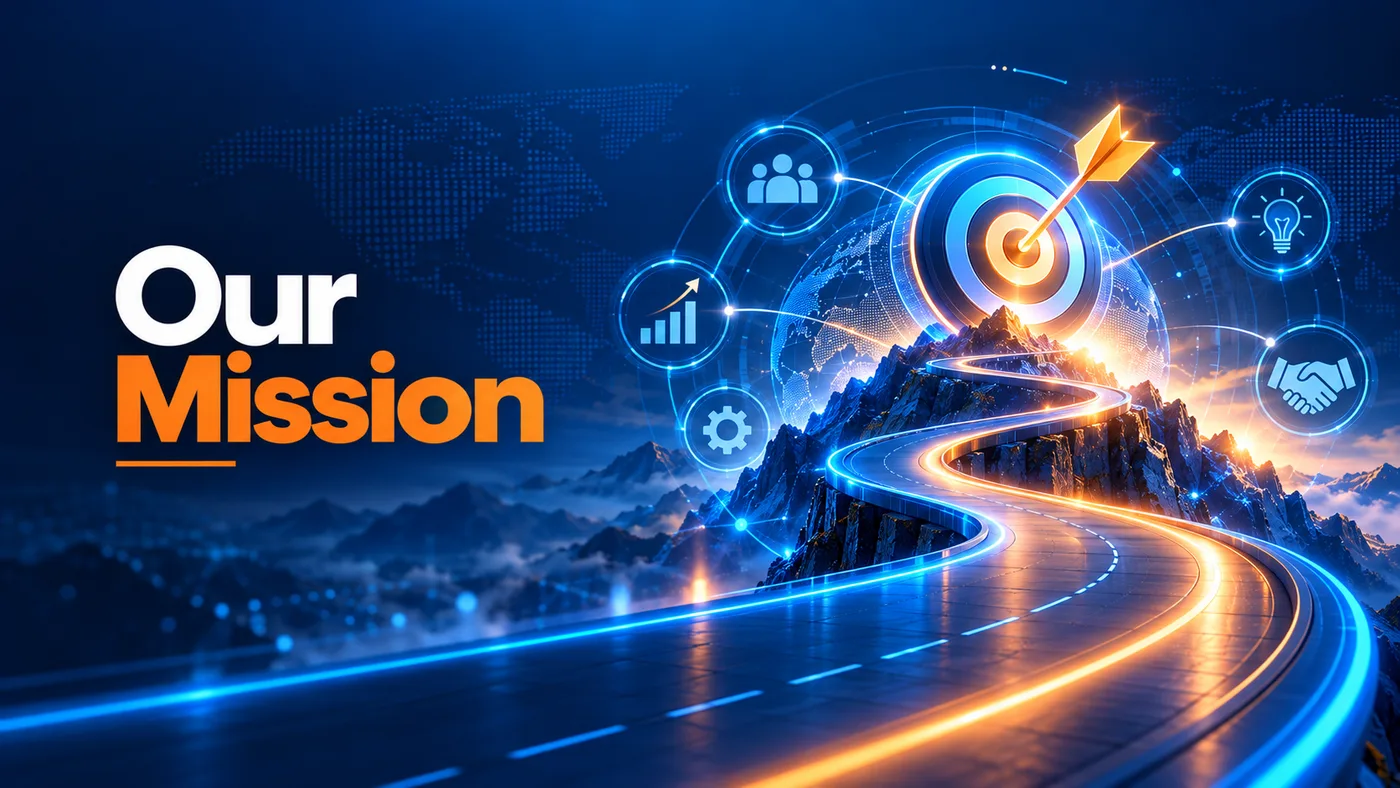
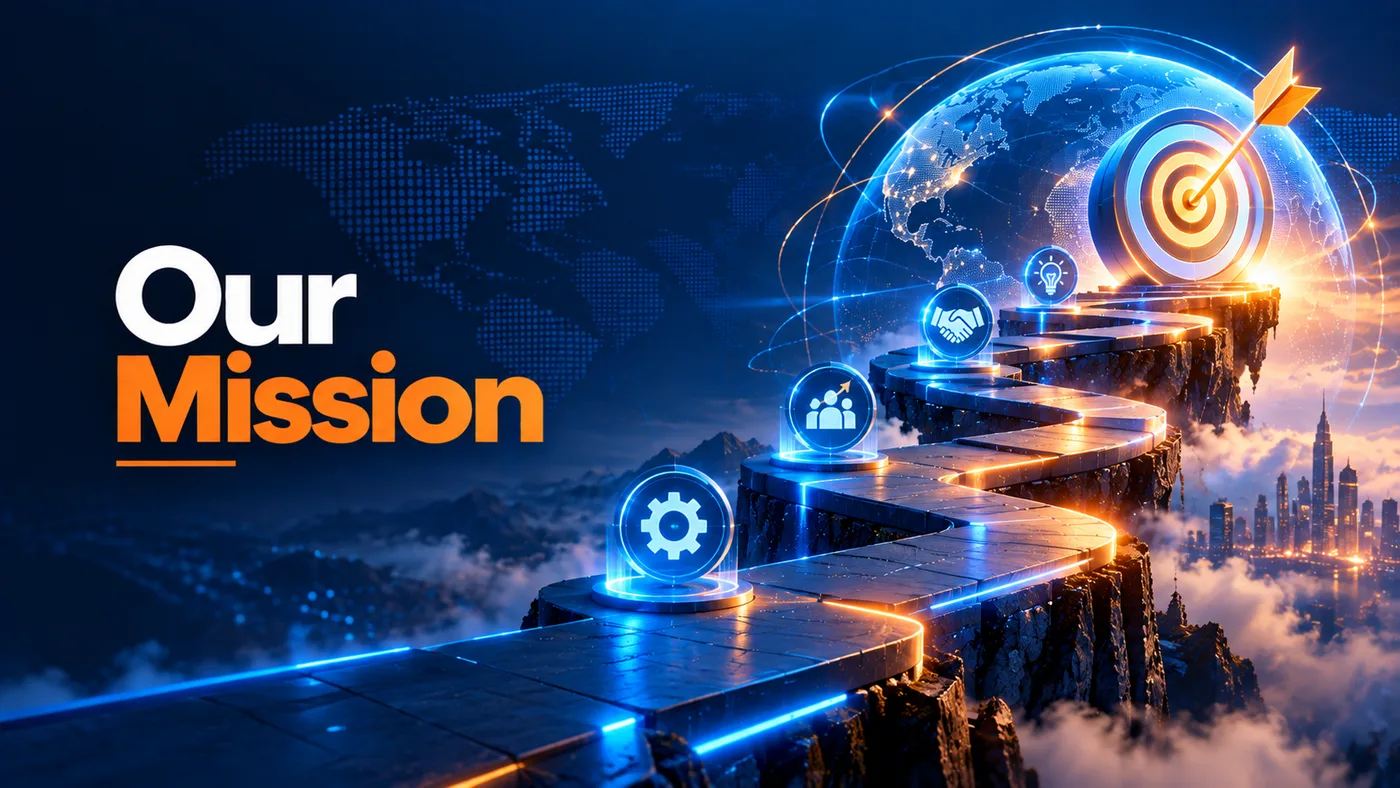
Fill large screens, new Who We Are artwork, tighter Home spacing
- Layout grows with the screen (wider content area, gently larger type
  on 1800px+ monitors) instead of a fixed 1200px column
- Who We Are uses the new transparent illustration with a soft orange glow
- Replace the Our Mission image with the corrected version
- Reduce empty vertical space on Home by roughly 30%

diff --git a/assets/css/main.css b/assets/css/main.css
@@ -44,7 +44,7 @@
 
   /* Space & shape */
   --gutter: clamp(16px, 4vw, 40px);
-  --container: 1200px;
+  --container: clamp(1200px, 78vw, 1720px);
   --section: clamp(72px, 9vw, 136px);
   --radius-sm: 10px;
   --radius: 18px;
@@ -402,7 +402,7 @@ p + p { margin-top: 1em; }
 .header-shell > .container { transition: padding 0.6s var(--ease); }
 
 .site-header.is-scrolled .header-shell {
-  max-width: min(1240px, calc(100% - 28px));
+  max-width: min(calc(var(--container) + 40px), calc(100% - 28px));
   margin-top: 12px;
   height: 62px;
   border-radius: 999px;
@@ -670,7 +670,7 @@ p + p { margin-top: 1em; }
 
 .home-hero__content {
   text-align: center;
-  max-width: 1020px;
+  max-width: 64rem;
   margin-inline: auto;
 }
 .home-hero h1 {
@@ -703,7 +703,7 @@ p + p { margin-top: 1em; }
 }
 .hero-visual__frame {
   position: relative;
-  max-width: 1080px;
+  max-width: min(1080px + (100vw - 1440px) * 0.4, 1400px);
   margin-inline: auto;
   border-radius: clamp(14px, 2vw, 26px);
   padding: clamp(6px, 0.8vw, 10px);
@@ -2313,3 +2313,43 @@ p + p { margin-top: 1em; }
   .home-hero .eyebrow { margin-bottom: 10px; }
   .hero-cta { margin-top: 20px; }
 }
+
+/* --------------------------------------------------------------------------
+   Large screens: scale type and spacing up gently so the page fills the view
+   -------------------------------------------------------------------------- */
+@media (min-width: 1800px) { html { font-size: 106.25%; } }
+@media (min-width: 2200px) { html { font-size: 112.5%; } }
+@media (min-width: 2800px) { html { font-size: 125%; } }
+
+/* --------------------------------------------------------------------------
+   Home: "Who We Are" illustration (transparent artwork, soft orange glow)
+   -------------------------------------------------------------------------- */
+.who-visual {
+  position: relative;
+  isolation: isolate;
+  display: grid;
+  place-items: center;
+}
+.who-visual__glow {
+  position: absolute;
+  z-index: -1;
+  inset: 6% 4%;
+  border-radius: 50%;
+  background:
+    radial-gradient(closest-side, rgba(255, 140, 58, 0.30), rgba(255, 140, 58, 0.12) 55%, transparent 100%);
+  filter: blur(26px);
+  animation: who-glow 7s ease-in-out infinite alternate;
+}
+@keyframes who-glow { from { transform: scale(0.94); opacity: 0.85; } to { transform: scale(1.04); opacity: 1; } }
+.who-visual__float { width: 100%; animation: who-float 8s ease-in-out infinite alternate; }
+.who-visual__float img { width: 100%; filter: drop-shadow(0 30px 40px rgba(11, 23, 48, 0.18)); }
+@keyframes who-float { from { transform: translateY(-6px); } to { transform: translateY(8px); } }
+
+/* --------------------------------------------------------------------------
+   Home: tighter vertical rhythm (about 30% less empty space)
+   -------------------------------------------------------------------------- */
+.header-on-dark .section { padding-block: calc(var(--section) * 0.7); }
+.header-on-dark .home-hero { padding-bottom: clamp(40px, 5vw, 80px); }
+.header-on-dark .section-head { margin-bottom: clamp(32px, 3.6vw, 52px); }
+.header-on-dark .contrast { margin-top: clamp(36px, 4.5vw, 64px); }
+.header-on-dark .statement__body .lead--display { margin-bottom: 22px; }

diff --git a/index.html b/index.html
@@ -103,8 +103,9 @@
       <p class="lead" data-reveal style="margin-top:28px">SaleCompass is a proprietary AI platform purpose-built to solve a problem that enterprise software has long ignored: SMEs have no reliable way to know what actually drives their revenue.</p>
       <p data-reveal>We built the intelligence layer that connects every touchpoint (ads, social, delivery apps, POS and CRM) into one clear, real-time view, so business owners can invest confidently and compete on data, not instinct.</p>
     </div>
-    <div class="hero-media" data-parallax="36">
-      <div class="media media--ratio-4-3" data-reveal="image"><img src="assets/img/home-who-we-are.webp" alt="AI marketing analytics dashboard on a wide monitor" width="1285" height="432" loading="lazy" decoding="async"></div>
+    <div class="who-visual" data-parallax="30">
+      <span class="who-visual__glow" aria-hidden="true"></span>
+      <div class="who-visual__float" data-reveal="fade"><img src="assets/img/who-we-are.webp" alt="SaleCompass analytics dashboard on a desktop monitor with floating revenue, channel and growth widgets" width="1400" height="849" loading="lazy" decoding="async"></div>
     </div>
   </div>
 </section>
